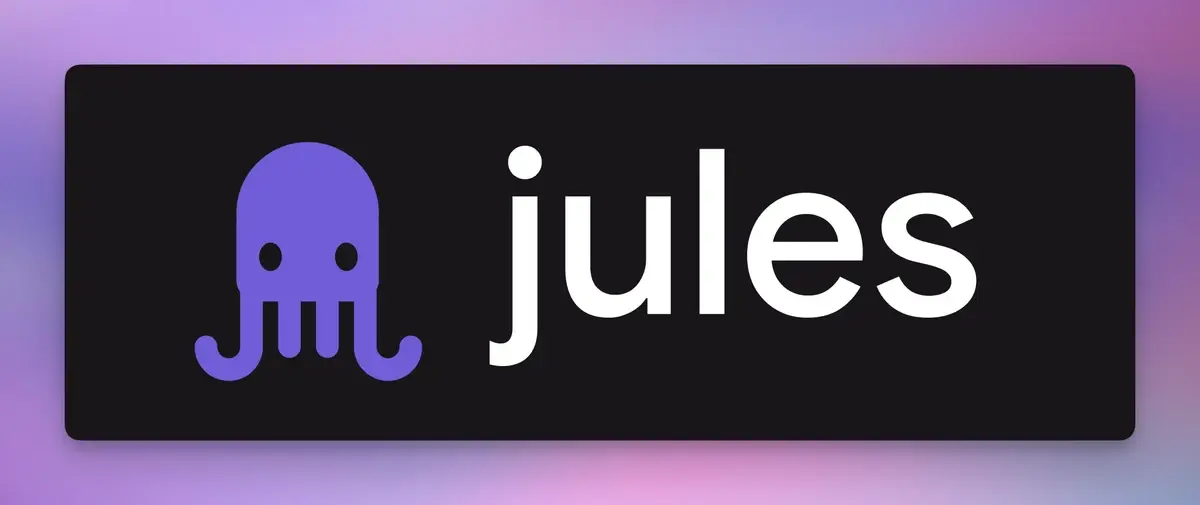
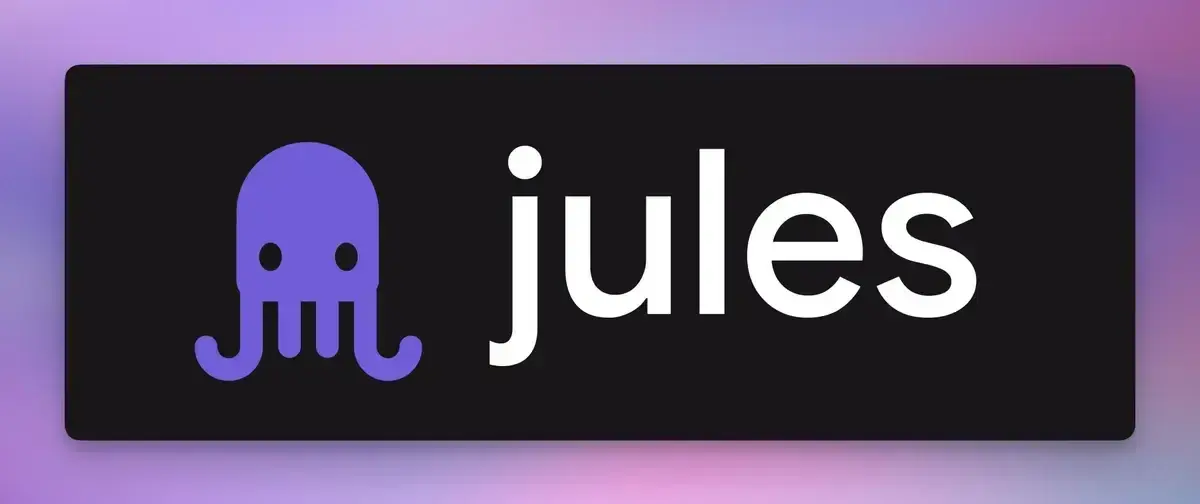
⚡ Bolt: Optimize proportional precision in responsive assets
- Fixed 2x header assets (1200x504) for perfect scaling with 1x (600x252).
- Re-encoded all header assets (AVIF/WebP) with high compression effort.
- Prevents sub-pixel layout shifts and rendering artifacts on high-DPI displays.
- Updated .jules/bolt.md with learning on asset dimension proportionality.

diff --git a/.jules/bolt.md b/.jules/bolt.md
@@ -12,3 +12,11 @@
 
 **Learning:** Even a 1px discrepancy in image height attributes (e.g., 253 vs 252) can trigger sub-pixel layout shifts and inefficient browser painting, especially on high-DPI displays where these values are scaled.
 **Action:** Always verify actual asset dimensions (using `file` or `identify`) before setting `width` and `height` in Markdown/HTML to ensure zero CLS.
+
+## 2026-07-11 - Proportional precision in responsive assets
+
+**Learning:** When using `srcset` for high-DPI displays (2x, 3x), non-proportional dimensions (e.g., 600x252 vs 1200x505) can cause sub-pixel rendering artifacts and inefficient browser painting during scaling.
+
+**Action:** Ensure high-resolution assets are exact multiples of the base 1x dimensions (e.g., exactly 2:1 ratio) to guarantee pixel-perfect scaling and zero layout shift across all resolutions.
+
+---

diff --git a/README.md b/README.md
@@ -1,7 +1,8 @@
 <p align="center">
   <!-- ⚡ Bolt: Optimized responsive header image.
-       Improved LCP and CLS by correcting height to 252px (600x252).
-       Impact: Prevents layout shift and ensures pixel-perfect rendering. -->
+       Fixed 2x asset dimensions (1200x504) for perfect scaling with 1x (600x252).
+       Impact: Prevents sub-pixel layout shifts and improves high-DPI rendering.
+  -->
   <picture>
     <source srcset="assets/jules-readme-600.avif 1x, assets/jules-readme-1200.avif 2x" type="image/avif">
     <source srcset="assets/jules-readme-600.webp 1x, assets/jules-readme.webp 2x" type="image/webp">
